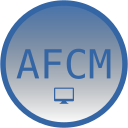
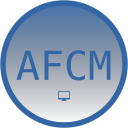
Add another profile picture variant, improve script, oxipng everything

diff --git a/export.py b/export.py
@@ -1,35 +1,73 @@
+# SPDX-FileCopyrightText: 2024 AFCMS <afcm.contact@gmail.com>
+# SPDX-License-Identifier: GPL-3.0-or-later
+
 import pathlib
 import subprocess
 
 """
-Author: AFCM
-License: GPLv3
-
 Export Inkscape SVG files to raw SVG and PNG in multiple resolutions
 """
 
+# INKSCAPE_COMMAND: list[str] = ["inkscape"]
+INKSCAPE_COMMAND = ["flatpak", "run", "org.inkscape.Inkscape"]
+
+RESOLUTIONS: set[int] = {64, 128, 256, 512, 1024, 2048}
+
+
+def export_simple_svg(src_path: pathlib.Path, out_path: pathlib.Path):
+    print("Exporting:", out_path.name)
+
+    if not src_path.exists():
+        print(f"File {src_path.name} do not exist!")
+        exit(1)
+
+    subprocess.run(
+        INKSCAPE_COMMAND + ["-o", str(out_path), "--export-plain-svg", str(src_path)]
+    )
+
+
+def export_simple_png(src_path: pathlib.Path, out_path: pathlib.Path, size: int):
+    print("Exporting:", out_path.name)
+
+    if not src_path.exists():
+        print(f"File {src_path.name} do not exist!")
+        exit(1)
+
+    subprocess.run(
+        INKSCAPE_COMMAND
+        + [
+            "-o",
+            str(out_path),
+            f"--export-width={size}",
+            f"--export-height={size}",
+            str(src_path),
+        ]
+    )
+
+
 for t in {"round", "square"}:
-	for c in {"alpha", "white"}:
-		source_path = pathlib.Path(f"./src/AFCM_source_{t}_{c}.svg")
+    for c in {"alpha", "white"}:
+        source_path = pathlib.Path(f"./src/AFCM_source_{t}_{c}.svg")
+        out_path_svg = pathlib.Path(f"./svg/AFCM_{t}_{c}.svg")
 
-		if not source_path.exists():
-			print(f"File ./src/AFCM_source_{t}_{c}.svg do not exist!")
-			exit(1)
+        export_simple_svg(source_path, out_path_svg)
 
-		out_path = pathlib.Path(f"./svg/AFCM_{t}_{c}.svg")
+        for s in RESOLUTIONS:
+            out_path = pathlib.Path(f"./png/AFCM_{t}_{c}_x{s}.png")
 
-		print("Exporting:", out_path.name)
-		subprocess.run(["inkscape", "-o", out_path, "--export-plain-svg", source_path])
-		print("\n")
+            export_simple_png(source_path, out_path, s)
+
+for c in {"alpha", "white"}:
+    source_path = pathlib.Path(f"./src/AFCM_source_square_{c}_no_border.svg")
+    out_path_svg = pathlib.Path(f"./svg/AFCM_square_{c}_no_border.svg")
+
+    export_simple_svg(source_path, out_path_svg)
+
+    for s in RESOLUTIONS:
+        out_path = pathlib.Path(f"./png/AFCM_square_{c}_no_border_x{s}.png")
+
+        export_simple_png(source_path, out_path, s)
 
 
-for t in {"round", "square"}:
-	for c in {"alpha", "white"}:
-		source_path = pathlib.Path(f"./svg/AFCM_{t}_{c}.svg")
-
-		for s in {64, 128, 256, 512, 1024, 2048}:
-			out_path = pathlib.Path(f"./png/AFCM_{t}_{c}_x{s}.png")
-
-			print("Exporting:", out_path.name)
-			subprocess.run(["inkscape", "-o", out_path, f"--export-width={s}", f"--export-height={s}", source_path])
-			print("\n")
+for f in pathlib.Path("./png").glob("*.png"):
+    subprocess.run(["oxipng", "--opt", "max", "--strip", "all", "--zopfli", str(f)])

diff --git a/README.md b/README.md
@@ -12,4 +12,8 @@ You need the [Hack Nerd Font](https://github.com/ryanoasis/nerd-fonts) font inst
 
 To modify the profile picture, you need to edit the files in `./src` using Inkscape.
 
-Then you can regenerate all the simple SVG and PNG files just by using `python3 ./export.py` (you still need to have the inkscape executable in your PATH).
+Then you can regenerate all the simple SVG and PNG files just by using `python3 ./export.py` (you need to have the inkscape executable or a Flatpak installation, it's not auto detected).
+
+You also need to have the `oxipng` executable in your PATH to optimize the PNG files.
+
+`oxipng` is configured to use the Zopfli compressor which is very slow on large files like the max resolutions.
